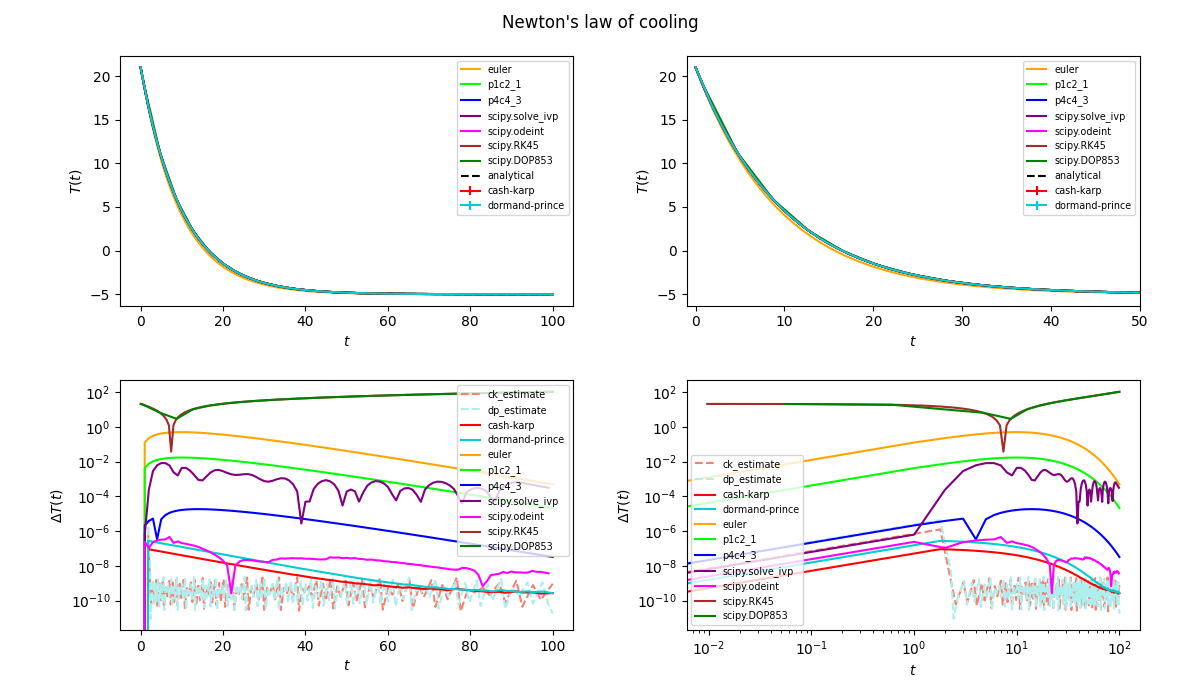
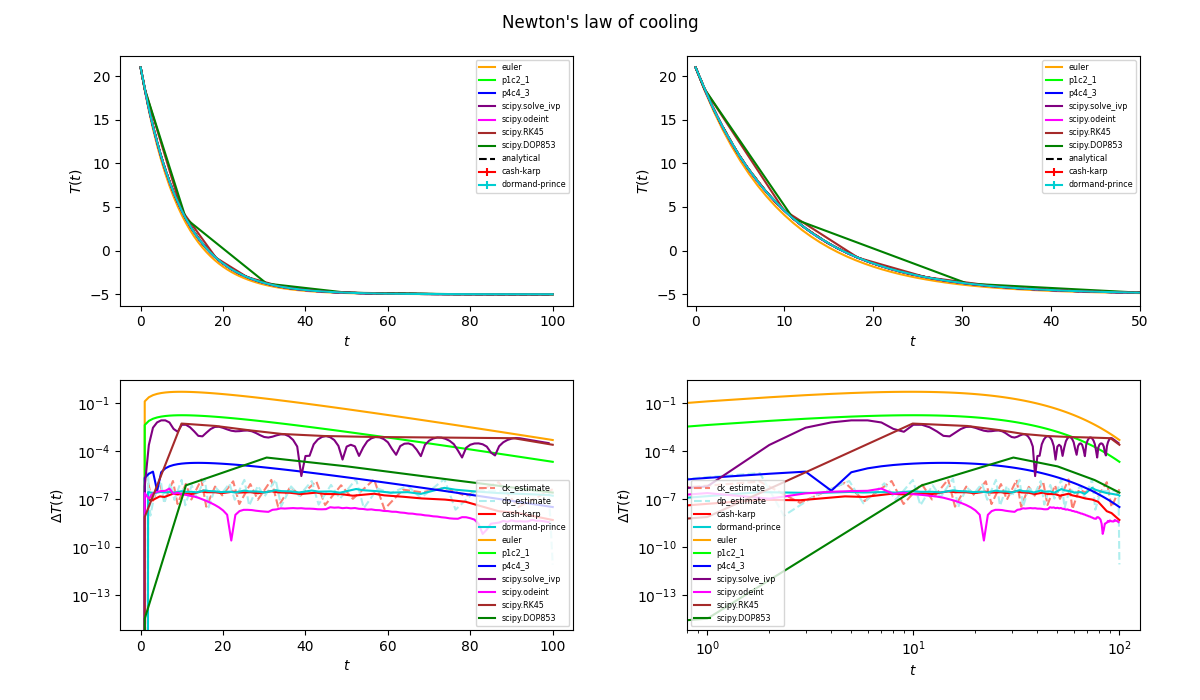
Updated two examples.

diff --git a/examples/newton_cooling/newton_cooling.py b/examples/newton_cooling/newton_cooling.py
@@ -19,10 +19,10 @@ problem_rk = RKMethod(rk_methods["euler"], heat, par)
 rk1 = problem_rk.run(x0=0, xf=100., y0=21, init_step=1.)
 
 problem_rk.method = rk_methods["cash_karp"]
-rk2 = problem_rk.run(x0=0, xf=100., y0=21, init_step=1., adaptive=True, tolerance=1e-9)
+rk2 = problem_rk.run(x0=0, xf=100., y0=21, init_step=1., adaptive=True, tolerance=1e-6)
 
 problem_rk.method = rk_methods["dormand_prince"]
-rk3 = problem_rk.run(x0=0, xf=100., y0=21, init_step=1., adaptive=True, tolerance=1e-9)
+rk3 = problem_rk.run(x0=0, xf=100., y0=21, init_step=1., adaptive=True, tolerance=1e-6)
 
 # PECE methods
 problem_pc = PECE(predictor[0], corrector[0], heat, par)
@@ -38,10 +38,10 @@ sc1 = scipy.integrate.solve_ivp(heat, t_span=(0, 100), y0=[21], t_eval=sct)
 sc2 = scipy.integrate.odeint(heat, t=sct, y0=[21], tfirst=True)
 sc2 = np.transpose(sc2)[0]
 
-sc3_solver = scipy.integrate.RK45(heat, 0, [21], t_bound=100., atol=1e-9, rtol=1e-9)
-sc4_solver = scipy.integrate.DOP853(heat, 0, [21], t_bound=100., atol=1e-9, rtol=1e-9)
+sc3_solver = scipy.integrate.RK45(heat, 0, [21], t_bound=100., first_step=1.)
+sc4_solver = scipy.integrate.DOP853(heat, 0, [21], t_bound=100., first_step=1.)
 def scipy_run(sc_solver):
-    sc = [[],[]]
+    sc = [[0.],[21.]]
     while True:
         try:
             sc_solver.step()
@@ -72,7 +72,7 @@ plt.plot(sc4[0], sc4[1], label='scipy.DOP853', color='green')
 plt.plot(rk2[0], analytical_heat(rk2[0], 21, par), label='analytical', color='black', linestyle='--')
 plt.xlabel(r'$t$')
 plt.ylabel(r'$T(t)$')
-plt.legend(fontsize="x-small")
+plt.legend(fontsize="xx-small")
 
 plt.subplot(2, 2, 2)
 plt.errorbar(rk2[0], rk2[1], yerr=rk2[2], label='cash-karp', color='red')
@@ -88,7 +88,7 @@ plt.plot(rk2[0], analytical_heat(rk2[0], 21, par), label='analytical', color='bl
 plt.xlabel(r'$t$')
 plt.ylabel(r'$T(t)$')
 plt.xlim(-1., 50.)
-plt.legend(fontsize="x-small")
+plt.legend(fontsize="xx-small")
 
 plt.subplot(2, 2, 3)
 plt.semilogy(rk2[0], rk2[2], label='ck_estimate', color='salmon', linestyle='--')
@@ -100,11 +100,11 @@ plt.semilogy(pc1[0], np.absolute(pc1[1]-analytical_heat(pc1[0], 21, par)), label
 plt.semilogy(pc2[0], np.absolute(pc2[1]-analytical_heat(pc2[0], 21, par)), label='p4c4_3', color='blue')
 plt.semilogy(sc1['t'], np.absolute(sc1['y'][0]-analytical_heat(sc1['t'], 21, par)), label='scipy.solve_ivp', color='purple')
 plt.semilogy(sct, np.absolute(sc2-analytical_heat(sct, 21, par)), label='scipy.odeint', color='fuchsia')
-plt.semilogy(sc3[0], np.absolute(sc3[0]-analytical_heat(sc3[0], 21, par)), label='scipy.RK45', color='brown')
-plt.semilogy(sc4[0], np.absolute(sc4[0]-analytical_heat(sc4[0], 21, par)), label='scipy.DOP853', color='green')
+plt.semilogy(sc3[0], np.absolute(sc3[1]-analytical_heat(sc3[0], 21, par)), label='scipy.RK45', color='brown')
+plt.semilogy(sc4[0], np.absolute(sc4[1]-analytical_heat(sc4[0], 21, par)), label='scipy.DOP853', color='green')
 plt.xlabel(r'$t$')
 plt.ylabel(r'$\Delta T(t)$')
-plt.legend(fontsize="x-small")
+plt.legend(fontsize="xx-small")
 
 plt.subplot(2, 2, 4)
 plt.loglog(rk2[0], rk2[2], label='ck_estimate', color='salmon', linestyle='--')
@@ -116,11 +116,11 @@ plt.loglog(pc1[0], np.absolute(pc1[1]-analytical_heat(pc1[0], 21, par)), label='
 plt.loglog(pc2[0], np.absolute(pc2[1]-analytical_heat(pc2[0], 21, par)), label='p4c4_3', color='blue')
 plt.loglog(sc1['t'], np.absolute(sc1['y'][0]-analytical_heat(sc1['t'], 21, par)), label='scipy.solve_ivp', color='purple')
 plt.loglog(sct, np.absolute(sc2-analytical_heat(sct, 21, par)), label='scipy.odeint', color='fuchsia')
-plt.loglog(sc3[0], np.absolute(sc3[0]-analytical_heat(sc3[0], 21, par)), label='scipy.RK45', color='brown')
-plt.loglog(sc4[0], np.absolute(sc4[0]-analytical_heat(sc4[0], 21, par)), label='scipy.DOP853', color='green')
+plt.loglog(sc3[0], np.absolute(sc3[1]-analytical_heat(sc3[0], 21, par)), label='scipy.RK45', color='brown')
+plt.loglog(sc4[0], np.absolute(sc4[1]-analytical_heat(sc4[0], 21, par)), label='scipy.DOP853', color='green')
 plt.xlabel(r'$t$')
 plt.ylabel(r'$\Delta T(t)$')
-plt.legend(fontsize="x-small")
+plt.legend(fontsize="xx-small")
 
 plt.subplots_adjust(left=0.1, right=0.95, bottom=0.1, top=0.92, wspace=0.25, hspace=0.3)
 plt.savefig("newton_cooling.png")

diff --git a/examples/cardio_EA/cardio_EA.py b/examples/cardio_EA/cardio_EA.py
@@ -1,0 +1,53 @@
+import copy
+import numpy as np
+from scipy.integrate import odeint, DOP853, RK45
+import matplotlib.pyplot as plt
+
+from ODEmethods.methods import rk_methods, sym_methods
+from ODEmethods.rungekutta import RKMethod 
+from ODEmethods.symplectic import SymIntegrator
+
+def cardio(t, y, par):
+    # Siroos Nazari
+    d1, d2, d3 = par[0] 
+    c1, c2, c3 = par[1]
+    r35, r13, r15 = par[2]
+    r31, r51, r53 = par[3]
+    a1, a2, a3, w = par[4]
+    # SA
+    dy1 = y[1]
+    dy2 = -d1*(y[0]**2.-1.)*y[1] - c1*y[0] + a1*np.cos(w*t) + r13*(y[0]-y[2]) + r15*(y[0]-y[4])
+    # AV
+    dy3 = y[3]
+    dy4 = -d2*(y[2]**2.-1.)*y[3] - c2*y[2] + a2*np.cos(w*t) + r31*(y[2]-y[0]) + r35*(y[2]-y[4])
+    # HP
+    dy5 = y[5]
+    dy6 = -d3*(y[4]**2.-1.)*y[5] - c3*y[4] + a3*np.cos(w*t) + r51*(y[4]-y[0]) + r53*(y[4]-y[2])
+    return [dy1, dy2, dy3, dy4, dy5, dy6]
+
+par = [
+    [5., 6., 7.],
+    [1.7, 1.7, 1.7],
+    [1., 1., 1.],
+    [0.0001, 0.0002, 0.0003],
+    [5., 6., 4., 2.002],
+]
+y0 = np.ones(6)*0.01
+
+sct = np.linspace(0., 20., 1000)
+sc = odeint(cardio, t=sct, y0=y0, args=(par,), tfirst=True)
+
+fig, axs = plt.subplots(1, 2)
+plt.suptitle("Cardiac Electrical Activity")
+fig.set_size_inches(10, 6)
+
+axs[0].plot(sct, sc[:,0])
+axs[0].plot(sct, sc[:,2])
+axs[0].plot(sct, sc[:,4])
+
+axs[1].plot(sct, sc[:,1])
+axs[1].plot(sct, sc[:,3])
+axs[1].plot(sct, sc[:,5])
+
+plt.savefig("cardio_EA.png")
+plt.close()
